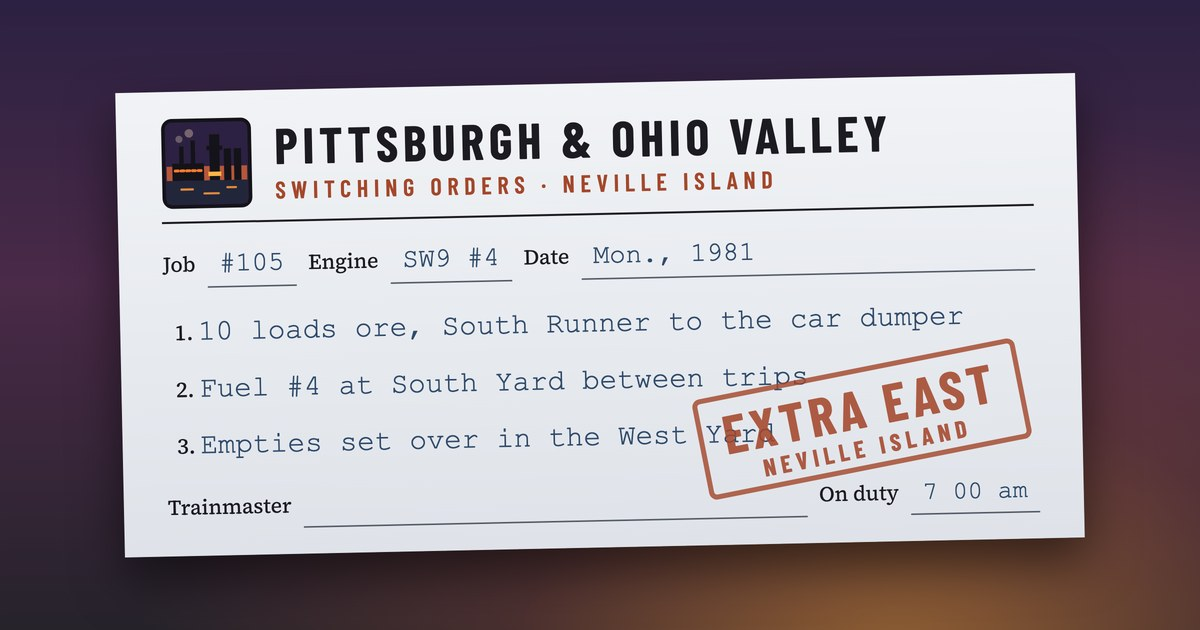
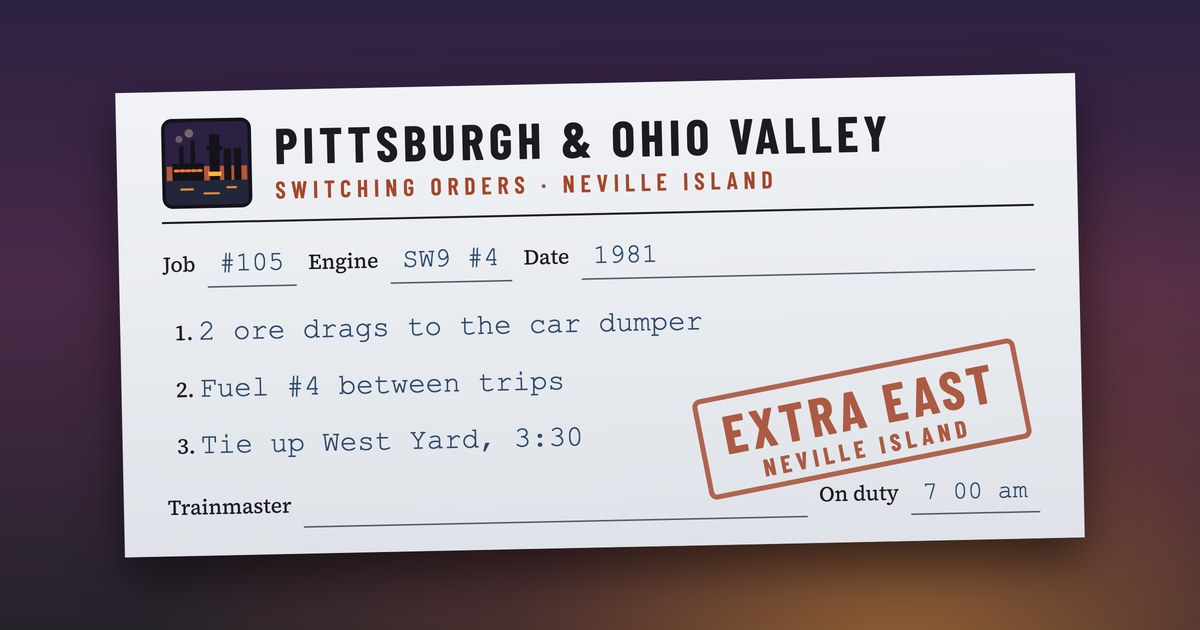
fix(www): the /play card lists only work the game gives #105 and keeps its lines clear of the stamp; order slips stay a shade off white.
Claude-Session: https://claude.ai/code/session_0162gHsPtCUjMvyetLWz3vUw

diff --git a/www/play/play.css b/www/play/play.css
@@ -1,7 +1,7 @@
-/* Extra East: Neville Island. Extra East's layout (exam/run.css) with the coke works at dusk around the paper: steel, rust and sodium light. Own classes (xw-*) to stay clear of ops.css. */
+/* Extra East: Neville Island. Extra East's layout (exam/run.css): steel-grey paper inside the coke works at dusk, with rust and sodium-light accents. Own classes (xw-*) to stay clear of ops.css. */
 .xw{
   --sheet:#e8eaee; --sheet-2:#d7dbe2; --line:#a9b0bc; --ink:#1c1b22; --muted:#545b67;
-  --red:#a4472b; --rust:#a4472b; --blue:#2f4a6b; --green:#2f6b3f; --flimsy:#f2f4f7; --stamp:#a4472b; --glow:#e8913a;
+  --red:#a4472b; --rust:#a4472b; --blue:#2f4a6b; --green:#2f6b3f; --flimsy:#f0f2f6; --stamp:#a4472b; --glow:#e8913a;
   --river:#3b4459; --land:#c9ced7;
   --mono:ui-monospace,"SF Mono",Menlo,Consolas,monospace;
   display:flex;flex-direction:column;gap:14px;color:var(--ink);font-family:var(--font-body);

diff --git a/www/scripts/make_share_cards.py b/www/scripts/make_share_cards.py
@@ -743,11 +743,11 @@ def play_neville():
     Drawn in the manner of ap-exam-run; the P&OV's own form is not known, so the layout is the game's switch list on paper."""
     body = f"""<div class="desk"><div class="form">
   <div class="hd"><img src="{_site}play/neville.svg" alt=""><div><div class="rr">PITTSBURGH &amp; OHIO VALLEY</div><div class="kind">SWITCHING ORDERS · NEVILLE ISLAND</div></div></div>
-  <div class="ln"><span>Job</span><span class="ty">#105</span><span>Engine</span><span class="ty">SW9 #4</span><span>Date</span><span class="ty wide">Mon., 1981</span></div>
+  <div class="ln"><span>Job</span><span class="ty">#105</span><span>Engine</span><span class="ty">SW9 #4</span><span>Date</span><span class="ty wide">1981</span></div>
   <ol class="work">
-    <li><span class="ty">10 loads ore, South Runner to the car dumper</span></li>
-    <li><span class="ty">Fuel #4 at South Yard between trips</span></li>
-    <li><span class="ty">Empties set over in the West Yard</span></li>
+    <li><span class="ty">2 ore drags to the car dumper</span></li>
+    <li><span class="ty">Fuel #4 between trips</span></li>
+    <li><span class="ty">Tie up West Yard, 3:30</span></li>
   </ol>
   <div class="ln foot"><span>Trainmaster</span><span class="ty wide">&nbsp;</span><span>On duty</span><span class="ty">7 00 am</span></div>
   <div class="stamp">EXTRA EAST<small>NEVILLE ISLAND</small></div>
